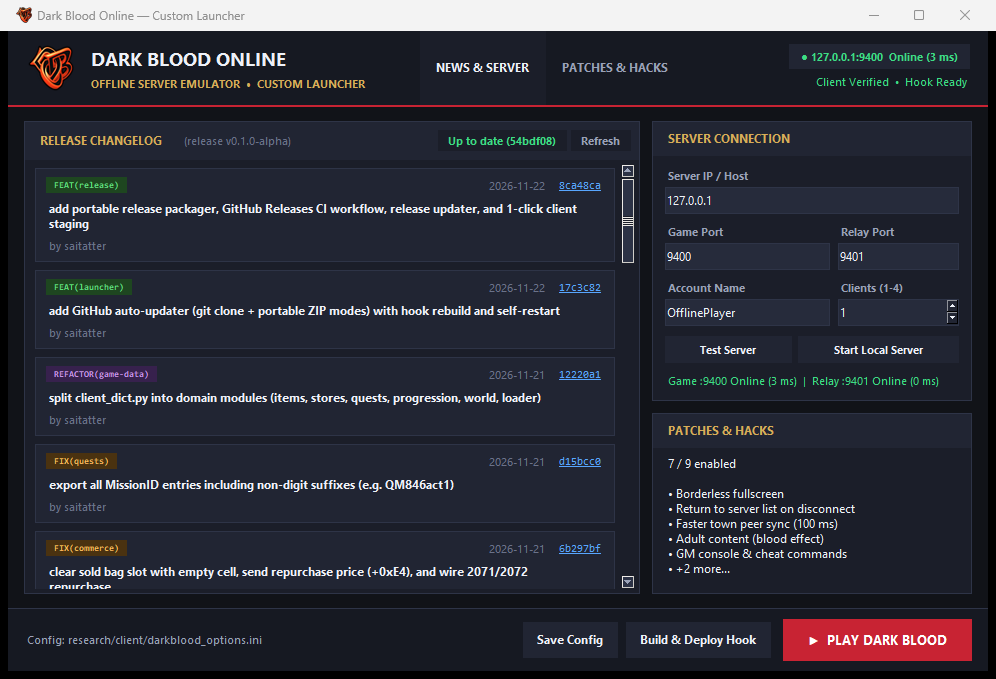
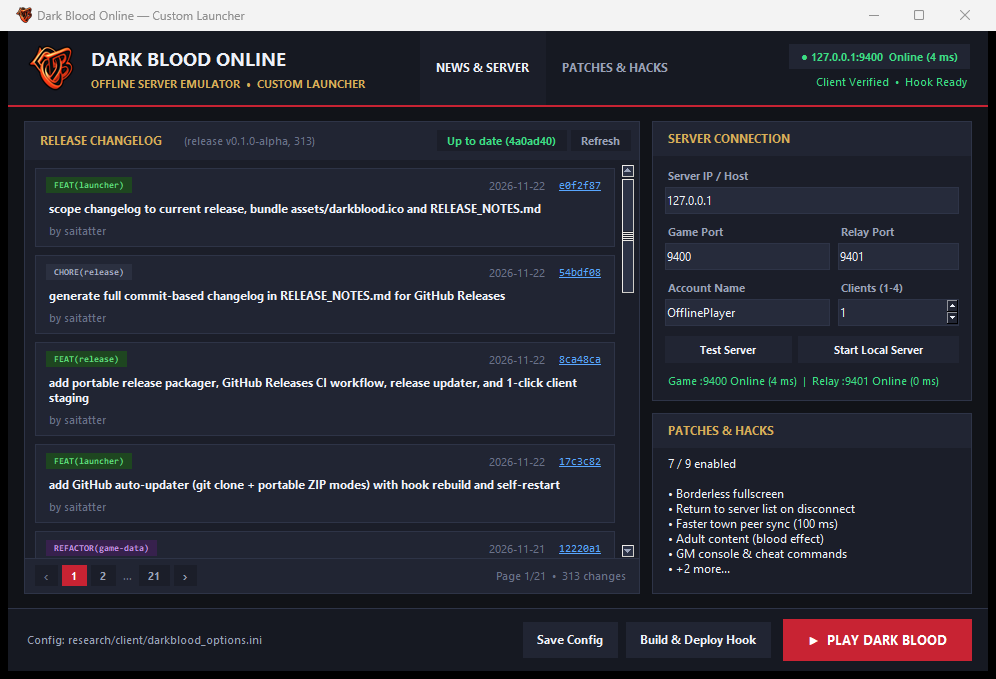
feat(launcher): load full release changelog with numbered pagination tabs

diff --git a/tools/launcher.py b/tools/launcher.py
@@ -179,18 +179,21 @@ def _current_release_tags(flags):
     return '', ''
 
 
-def fetch_recent_commits(limit=25):
+def fetch_recent_commits(limit=None):
     """Return list of dicts {sha, short, date, author, subject} for the current release."""
     flags = getattr(subprocess, 'CREATE_NO_WINDOW', 0)
     cur_tag, prev_tag = _current_release_tags(flags)
     rev_spec = f'{prev_tag}..{cur_tag}' if (cur_tag and prev_tag) else (cur_tag or 'HEAD')
     label = f'release {cur_tag}' if cur_tag else 'local git'
     try:
+        git_args = ['git', 'log', rev_spec, '--no-merges',
+                    '--pretty=format:%H\x1f%h\x1f%ad\x1f%an\x1f%ae\x1f%s', '--date=short']
+        if limit is not None:
+            git_args.insert(3, f'-n{limit * 2}')
         proc = subprocess.run(
-            ['git', 'log', rev_spec, '--no-merges', f'-n{limit * 2}',
-             '--pretty=format:%H\x1f%h\x1f%ad\x1f%an\x1f%ae\x1f%s', '--date=short'],
+            git_args,
             cwd=str(ROOT), capture_output=True, text=True, encoding='utf-8',
-            errors='replace', timeout=5, creationflags=flags,
+            errors='replace', timeout=8, creationflags=flags,
         )
         if proc.returncode == 0 and proc.stdout.strip():
             commits = []
@@ -205,18 +208,19 @@ def fetch_recent_commits(limit=25):
                         'author': _resolve_github_username(parts[3], parts[4]),
                         'subject': parts[5],
                     })
-                    if len(commits) >= limit:
+                    if limit is not None and len(commits) >= limit:
                         break
             if commits:
                 return commits, label
     except Exception:
         pass
 
-    # Fallback: GitHub REST API (scoped to release tag when known)
+    # Fallback: GitHub REST API (scoped to release tag when known, up to 100/page)
     try:
-        api_url = GITHUB_COMMITS_API + (f'&sha={cur_tag}' if cur_tag else '')
+        base_api = f'https://api.github.com/repos/{updater.GITHUB_REPO}/commits?per_page=100'
+        api_url = base_api + (f'&sha={cur_tag}' if cur_tag else '')
         req = urllib.request.Request(api_url, headers={'User-Agent': 'DarkBlood-Launcher'})
-        with urllib.request.urlopen(req, timeout=5) as resp:
+        with urllib.request.urlopen(req, timeout=8) as resp:
             data = json.loads(resp.read().decode('utf-8'))
         commits = []
         for item in data:
@@ -237,7 +241,7 @@ def fetch_recent_commits(limit=25):
                 'sha': sha, 'short': sha[:7],
                 'date': date, 'author': author, 'subject': subject,
             })
-            if len(commits) >= limit:
+            if limit is not None and len(commits) >= limit:
                 break
         return commits, (f'release {cur_tag}' if cur_tag else 'GitHub')
     except Exception as exc:
@@ -252,7 +256,7 @@ def fetch_recent_commits(limit=25):
                     scope, desc, sha, user = m.groups()
                     subj = f'feat({scope}): {desc}' if scope else desc
                     commits.append({'sha': sha, 'short': sha, 'date': cur_tag or 'release', 'author': user, 'subject': subj})
-                    if len(commits) >= limit:
+                    if limit is not None and len(commits) >= limit:
                         break
             if commits:
                 return commits, (f'release {cur_tag} (offline)' if cur_tag else 'release notes')
@@ -596,7 +600,15 @@ class DarkBloodLauncher(tk.Tk):
         self._update_status = None
 
         self.news_scroll = ScrollFrame(left_card, bg=BG_CARD)
-        self.news_scroll.pack(fill='both', expand=True, padx=4, pady=4)
+        self.news_scroll.pack(fill='both', expand=True, padx=4, pady=(4, 0))
+
+        tk.Frame(left_card, bg=BORDER, height=1).pack(fill='x')
+        self.news_pager = tk.Frame(left_card, bg=BG_CARD_ALT, height=34)
+        self.news_pager.pack(fill='x')
+        self.news_pager.pack_propagate(False)
+        self._all_commits = []
+        self._commits_page = 1
+        self._commits_page_size = 15
 
         # Right panel: Server Connection + Account + Active Patches summary
         right_col = tk.Frame(self.news_page, bg=BG_DARK, width=320)
@@ -798,24 +810,41 @@ class DarkBloodLauncher(tk.Tk):
     def _refresh_commits(self):
         for child in self.news_scroll.inner.winfo_children():
             child.destroy()
-        tk.Label(self.news_scroll.inner, text='Loading latest commits...', bg=BG_CARD, fg=TEXT_MUTED,
+        for child in self.news_pager.winfo_children():
+            child.destroy()
+        tk.Label(self.news_scroll.inner, text='Loading release changelog...', bg=BG_CARD, fg=TEXT_MUTED,
                  font=('Segoe UI', 9)).pack(anchor='w', padx=12, pady=12)
 
         def worker():
-            commits, source = fetch_recent_commits(limit=25)
+            commits, source = fetch_recent_commits(limit=None)
             self.after(0, lambda: self._render_commits(commits, source))
         threading.Thread(target=worker, daemon=True).start()
 
     def _render_commits(self, commits, source):
-        for child in self.news_scroll.inner.winfo_children():
-            child.destroy()
-        self.news_source_lbl.config(text=f'({source})')
-        if not commits:
+        self._all_commits = list(commits or [])
+        self._commits_page = 1
+        self.news_source_lbl.config(text=f'({source}, {len(self._all_commits)})' if self._all_commits else f'({source})')
+        if not self._all_commits:
+            for child in self.news_scroll.inner.winfo_children():
+                child.destroy()
+            for child in self.news_pager.winfo_children():
+                child.destroy()
             tk.Label(self.news_scroll.inner, text=f'Could not load commits ({source}).',
                      bg=BG_CARD, fg=ERR_RED, font=('Segoe UI', 9)).pack(anchor='w', padx=12, pady=12)
             return
+        self._show_commits_page(1)
 
-        for c in commits:
+    def _show_commits_page(self, page: int):
+        total = len(self._all_commits)
+        psize = self._commits_page_size
+        total_pages = max(1, (total + psize - 1) // psize)
+        page = max(1, min(page, total_pages))
+        self._commits_page = page
+
+        for child in self.news_scroll.inner.winfo_children():
+            child.destroy()
+        start = (page - 1) * psize
+        for c in self._all_commits[start:start + psize]:
             ctype, scope, title = parse_commit_prefix(c['subject'])
             bg_pill, fg_pill = COMMIT_BADGES.get(ctype, ('#2b3040', '#a6afc4'))
 
@@ -843,6 +872,60 @@ class DarkBloodLauncher(tk.Tk):
                 anchor='w', padx=10, pady=(1, 2))
             tk.Label(item, text=f'by {c["author"]}', bg=BG_CARD_ALT, fg=TEXT_MUTED,
                      font=('Segoe UI', 8)).pack(anchor='w', padx=10, pady=(0, 6))
+
+        self.news_scroll.canvas.yview_moveto(0.0)
+        self._render_pager(page, total_pages, total)
+
+    def _render_pager(self, page: int, total_pages: int, total_items: int):
+        for child in self.news_pager.winfo_children():
+            child.destroy()
+
+        bar = tk.Frame(self.news_pager, bg=BG_CARD_ALT)
+        bar.pack(side='left', padx=8, pady=4)
+
+        def add_tab(label, target_page, active=False, disabled=False):
+            bg = ACCENT if active else BG_CARD
+            fg = 'white' if active else (TEXT_MUTED if disabled else TEXT_DIM)
+            btn = tk.Button(
+                bar, text=label,
+                command=(lambda p=target_page: self._show_commits_page(p)) if not disabled else None,
+                state='disabled' if disabled else 'normal',
+                bg=bg, fg=fg, activebackground=BORDER, activeforeground=TEXT_MAIN,
+                disabledforeground=TEXT_MUTED, relief='flat', bd=0,
+                cursor='arrow' if disabled else 'hand2',
+                font=('Segoe UI', 8, 'bold'), padx=7, pady=2,
+            )
+            btn.pack(side='left', padx=2)
+
+        add_tab('‹', page - 1, disabled=(page <= 1))
+
+        # Build compact numbered tab list: 1 ... page-1 [page] page+1 ... total_pages
+        if total_pages <= 7:
+            pages = list(range(1, total_pages + 1))
+        else:
+            pages = [1]
+            lo = max(2, page - 1)
+            hi = min(total_pages - 1, page + 1)
+            if lo > 2:
+                pages.append(None)
+            pages.extend(range(lo, hi + 1))
+            if hi < total_pages - 1:
+                pages.append(None)
+            pages.append(total_pages)
+
+        for p in pages:
+            if p is None:
+                tk.Label(bar, text='…', bg=BG_CARD_ALT, fg=TEXT_MUTED,
+                         font=('Segoe UI', 8)).pack(side='left', padx=2)
+            else:
+                add_tab(str(p), p, active=(p == page))
+
+        add_tab('›', page + 1, disabled=(page >= total_pages))
+
+        tk.Label(
+            self.news_pager, text=f'Page {page}/{total_pages}  •  {total_items} changes',
+            bg=BG_CARD_ALT, fg=TEXT_MUTED, font=('Segoe UI', 8),
+        ).pack(side='right', padx=10)
 
     def _collect_and_save(self):
         net = options.validate_network(
